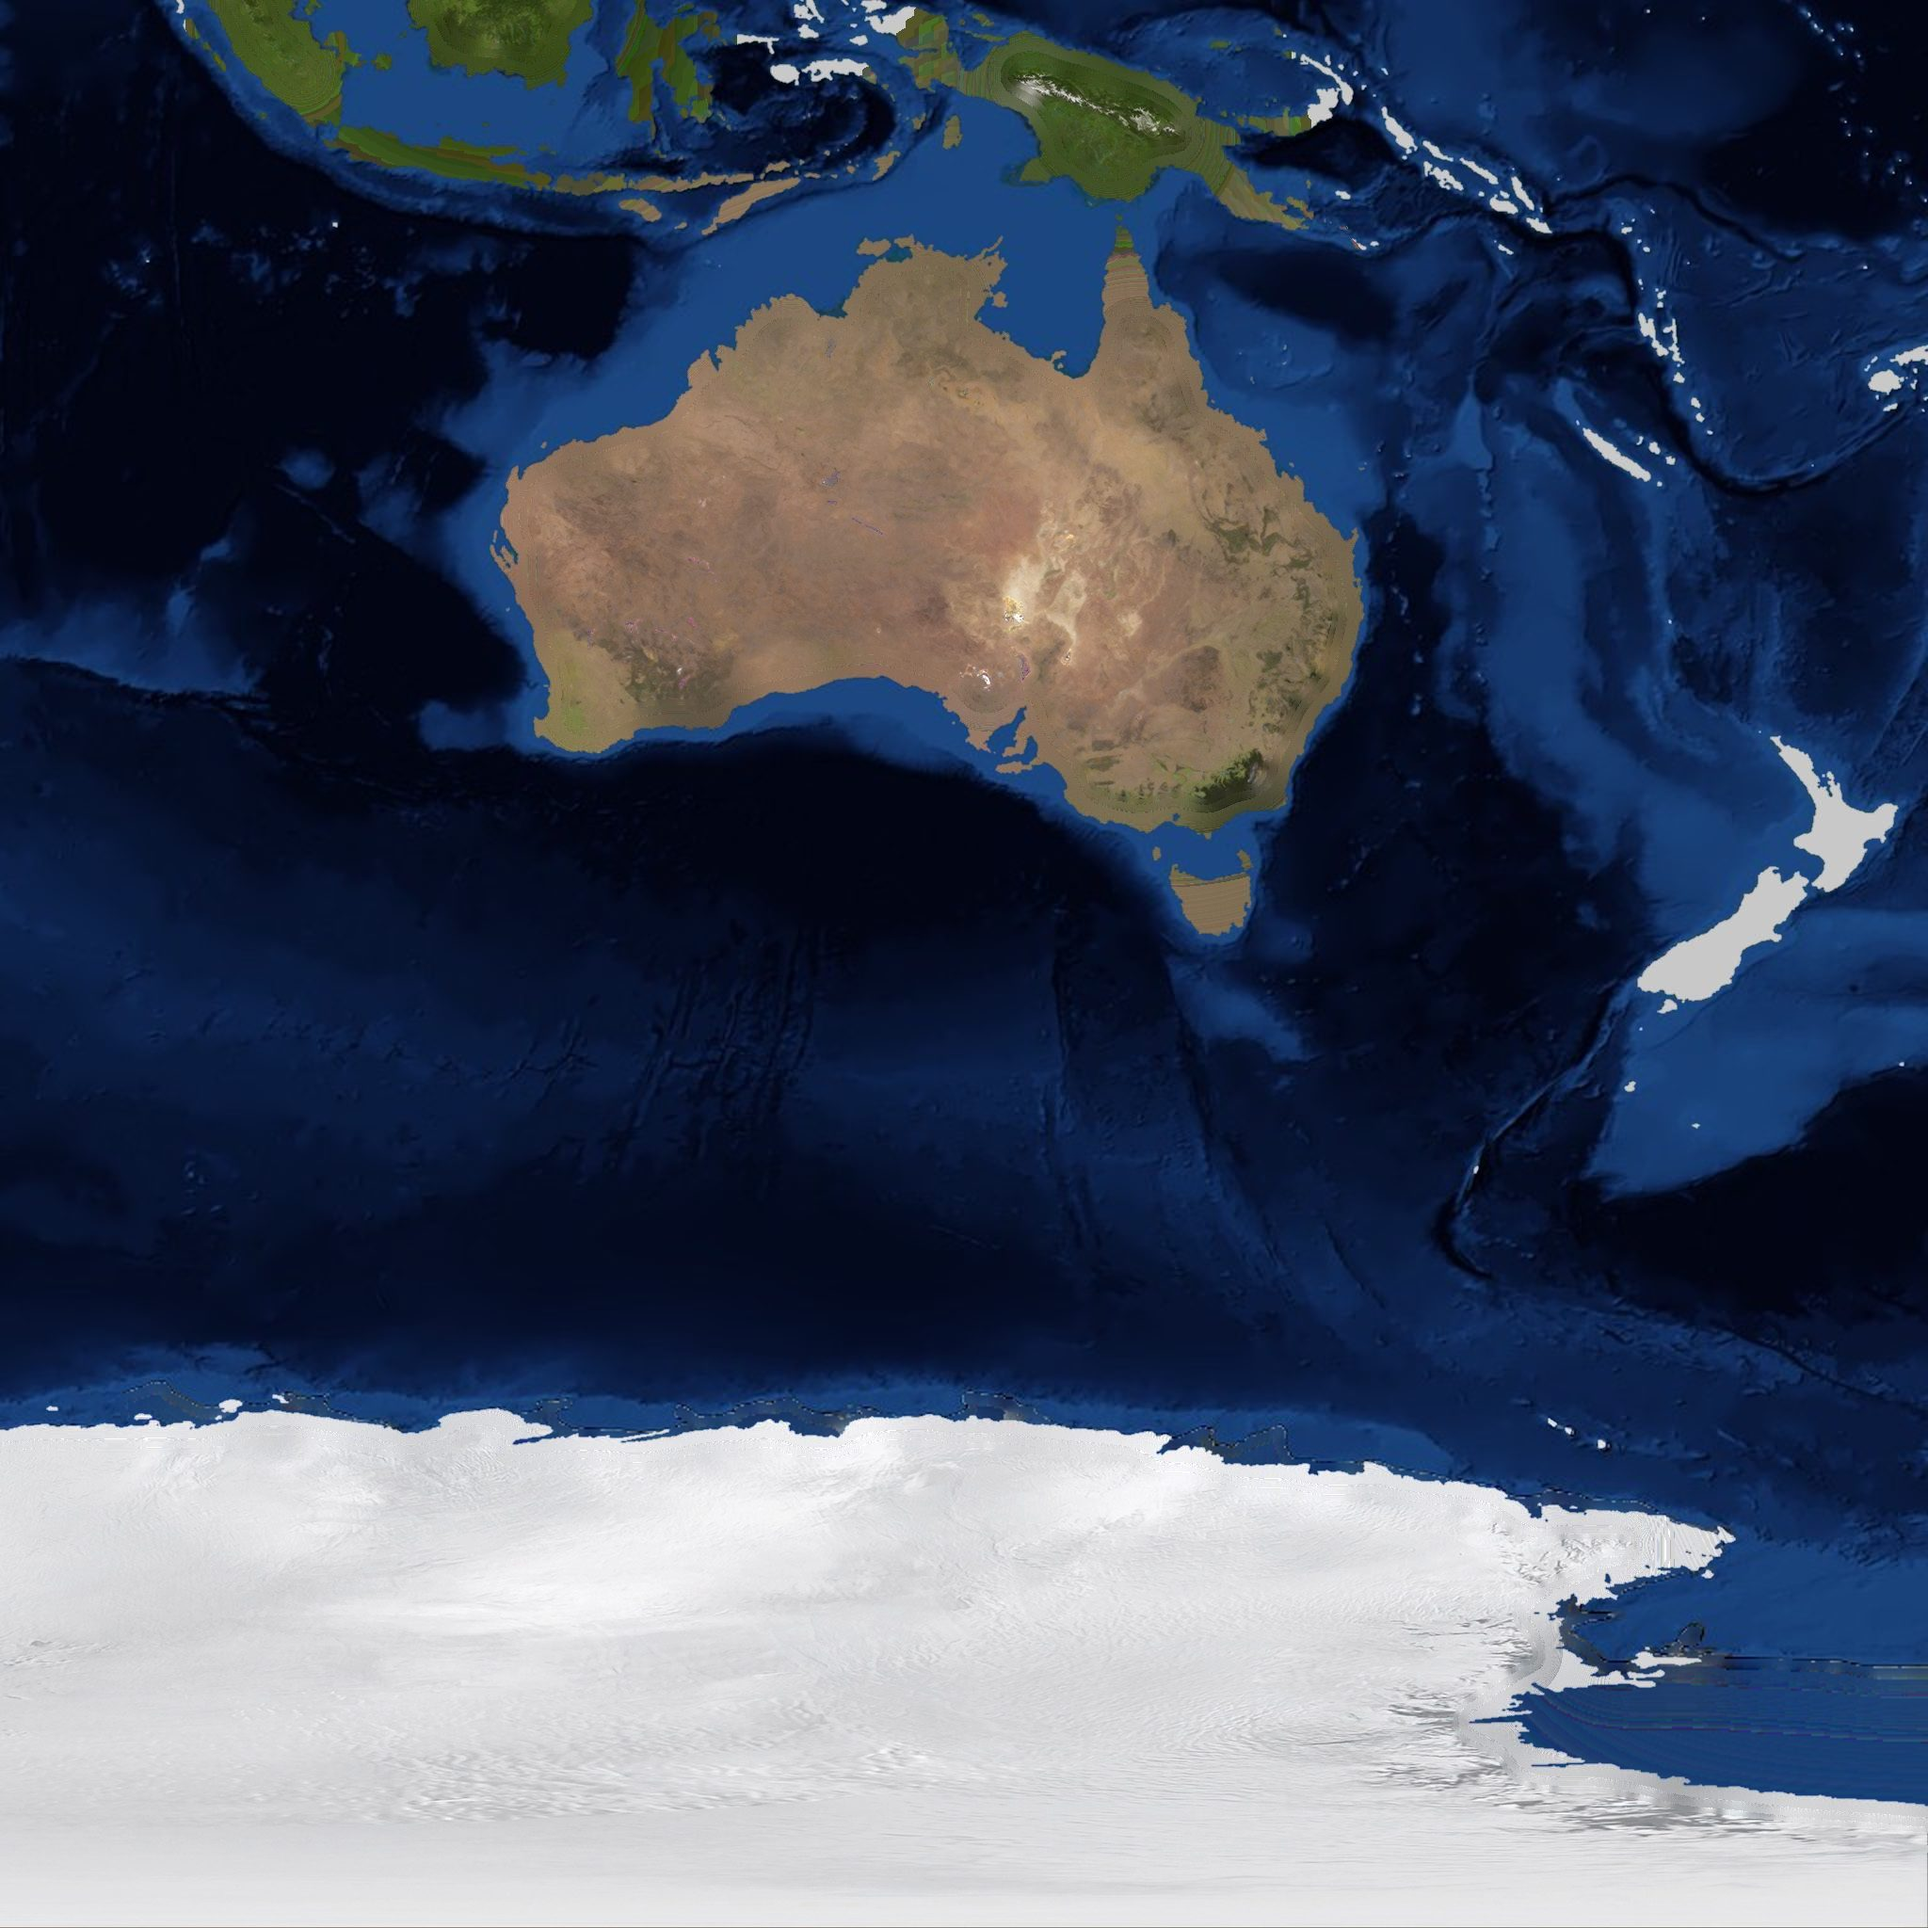
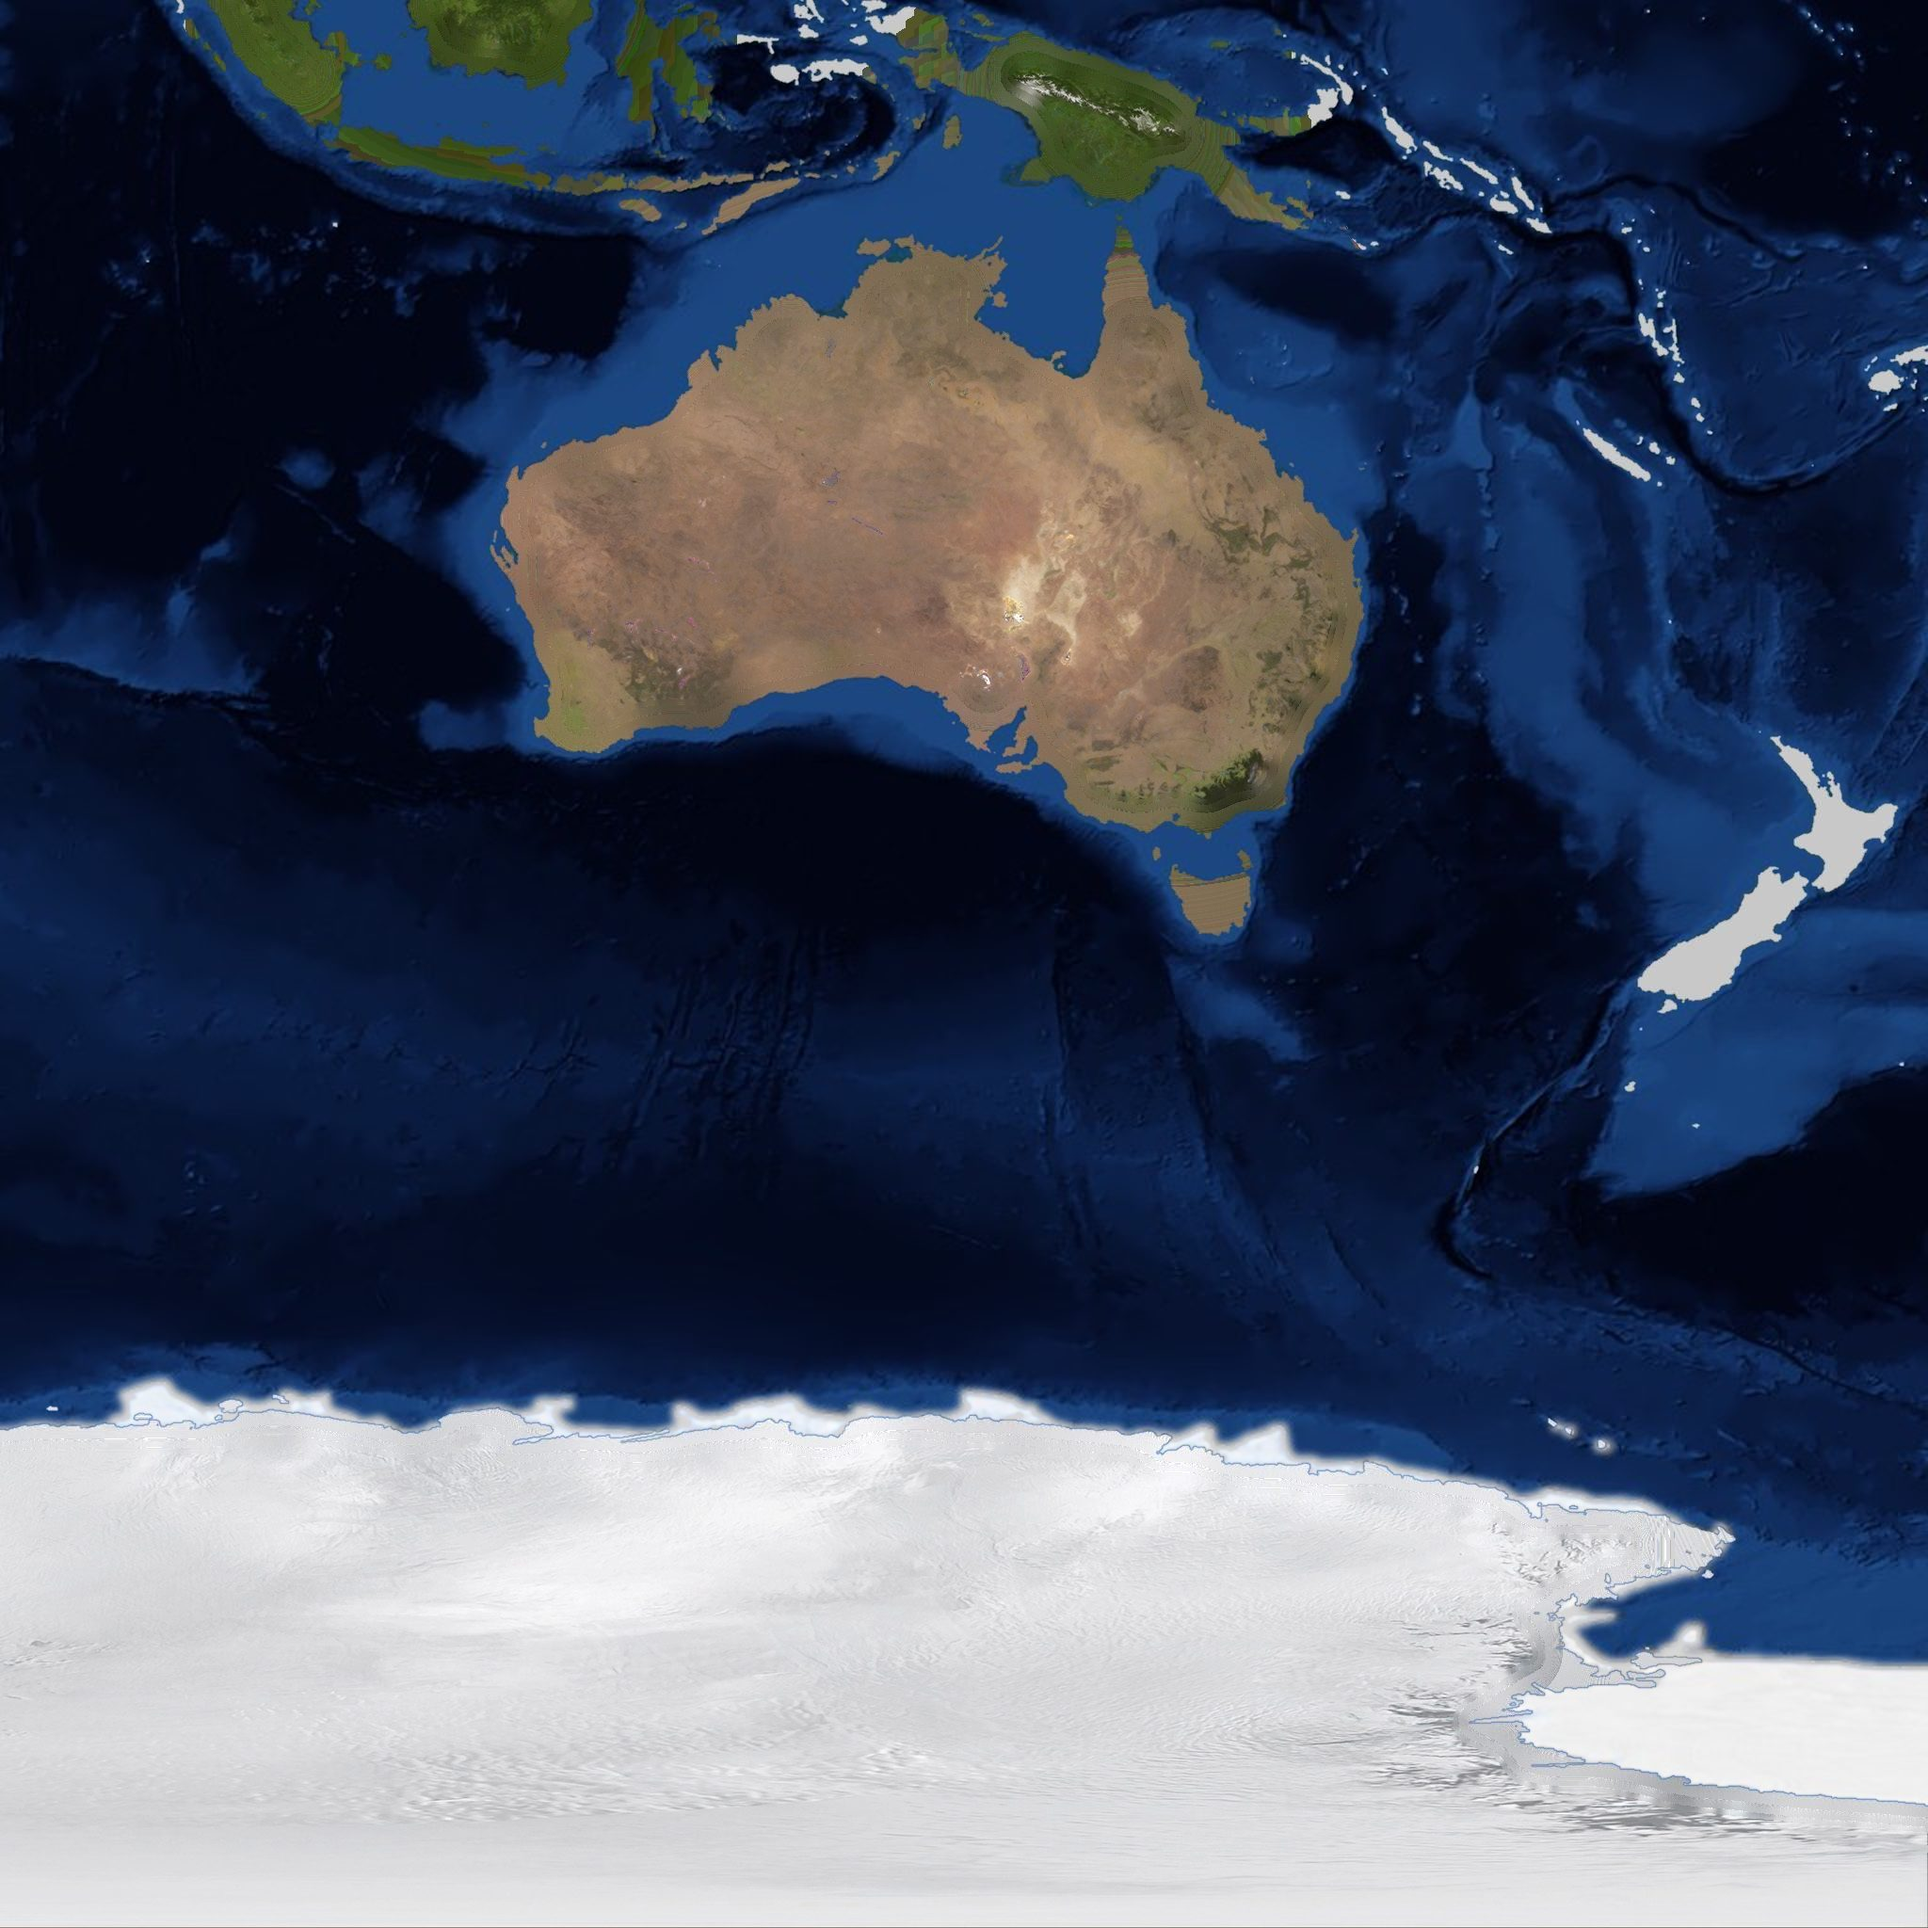
GeoPolit: remove antimeridian seam line, restore Antarctic ice shelves in background
Claude-Session: https://claude.ai/code/session_01CWDGfJ6Tr7a2tYama4KdYf

Changed region(s): [[0.0, 0.6875, 0.8438, 0.7812], [0.7812, 0.7812, 1.0, 0.9375]]

diff --git a/geo/src/main/assets/index.html b/geo/src/main/assets/index.html
@@ -328,7 +328,7 @@ function glBuildLOD(L){
   const fill={vao,n:idx.length};
   // border segments (instanced)
   const seg=[],lr=[];
-  for(let a=0;a<L.arcs.length;a++){const f=L.arcs[a],l=ARL[a],r=ARR[a]<0?65535:ARR[a];for(let k=0;k+3<f.length;k+=2){seg.push(f[k],f[k+1],f[k+2],f[k+3]);lr.push(l,r)}}
+  for(let a=0;a<L.arcs.length;a++){const f=L.arcs[a],l=ARL[a],r=ARR[a]<0?65535:ARR[a];for(let k=0;k+3<f.length;k+=2){const x0=f[k],y0=f[k+1],x1=f[k+2],y1=f[k+3];if((x0<.05&&x1<.05)||(x0>MW-.05&&x1>MW-.05)||(y0>MH-.05&&y1>MH-.05))continue;seg.push(x0,y0,x1,y1);lr.push(l,r)}}
   const lvao=gl.createVertexArray();gl.bindVertexArray(lvao);
   gl.bindBuffer(gl.ARRAY_BUFFER,GLR.seg);gl.enableVertexAttribArray(0);gl.vertexAttribPointer(0,2,gl.FLOAT,false,0,0);
   const sb=gl.createBuffer();gl.bindBuffer(gl.ARRAY_BUFFER,sb);gl.bufferData(gl.ARRAY_BUFFER,new Float32Array(seg),gl.STATIC_DRAW);gl.enableVertexAttribArray(1);gl.vertexAttribPointer(1,4,gl.FLOAT,false,0,0);gl.vertexAttribDivisor(1,1);
